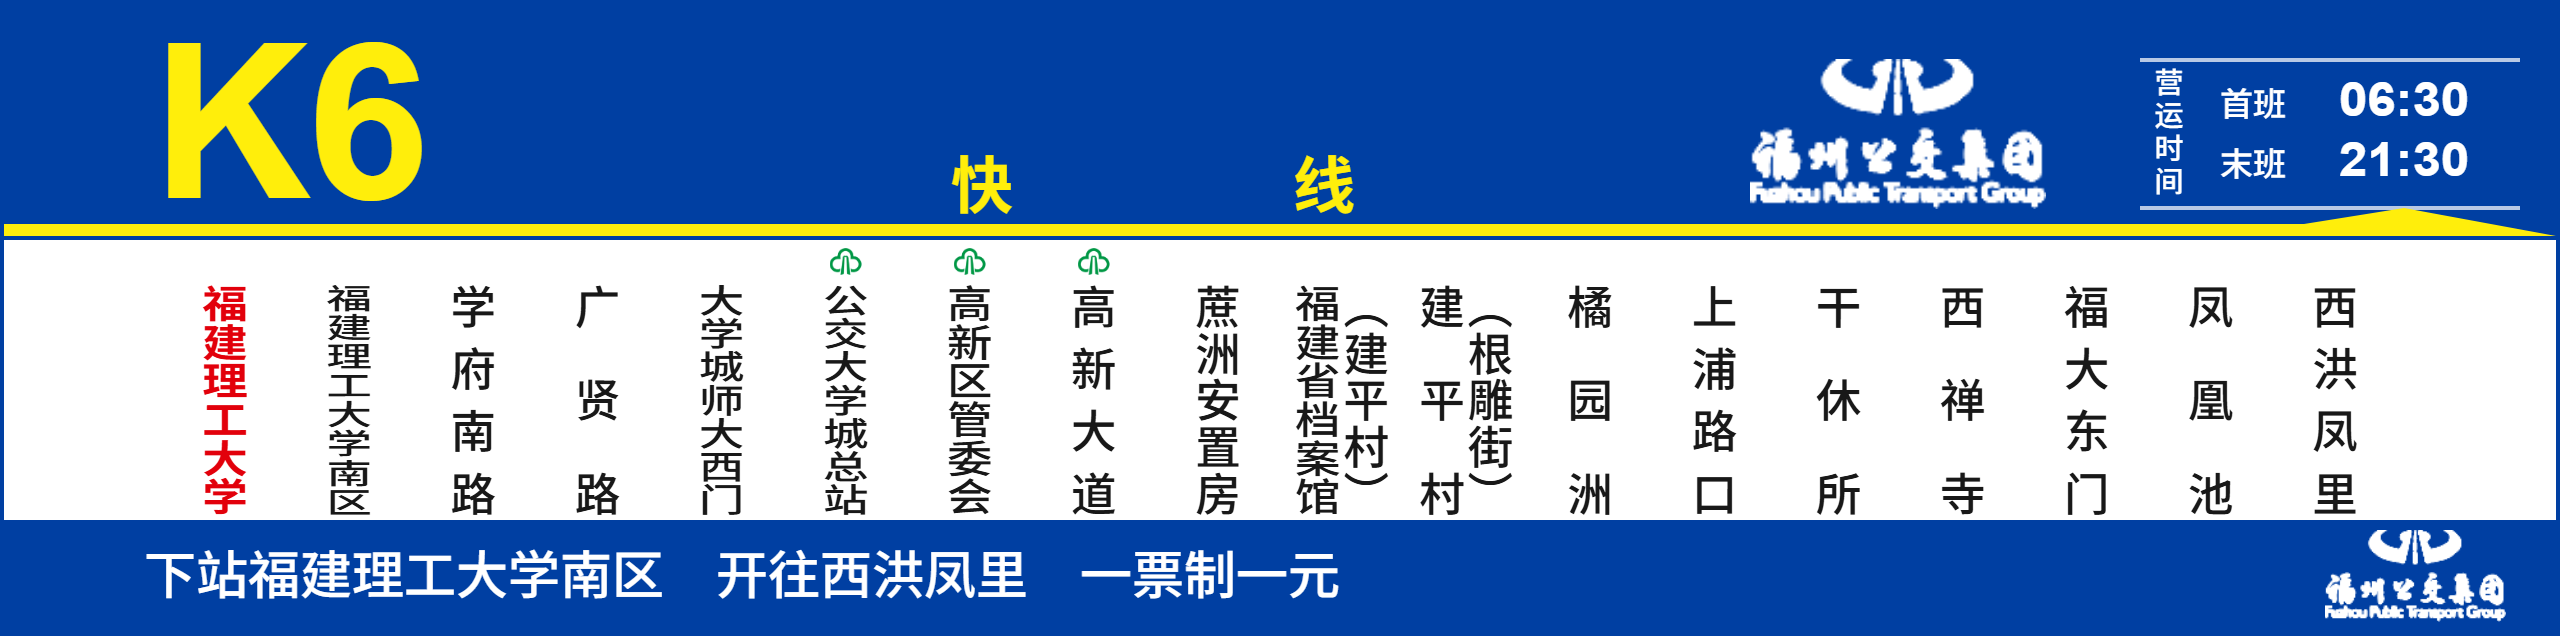
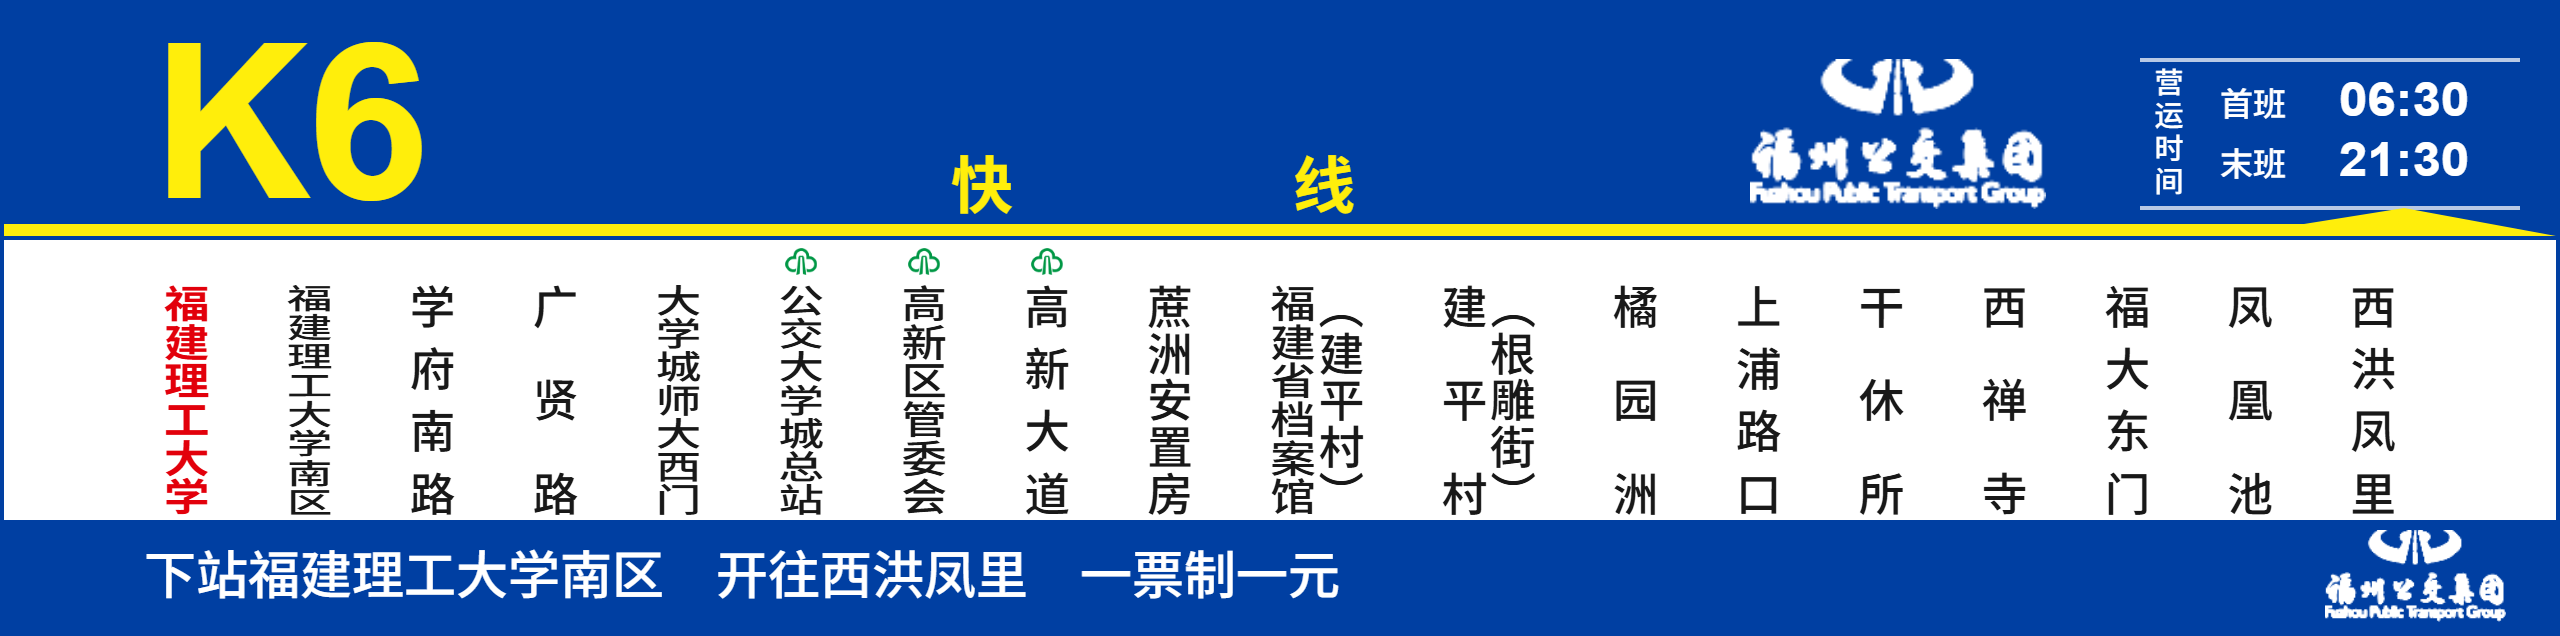
Add files via upload

Changed region(s): [[0.0625, 0.3884, 0.9375, 0.8066]]

diff --git a/index.html b/index.html
@@ -157,7 +157,7 @@
 
             <div class="station-tip">
               <svg viewBox="0 0 20 20" aria-hidden="true"><path d="M10 18s6-5.1 6-10a6 6 0 1 0-12 0c0 4.9 6 10 6 10Z" fill="none" stroke="currentColor" stroke-width="1.5"/><circle cx="10" cy="8" r="2.2" fill="none" stroke="currentColor" stroke-width="1.5"/></svg>
-              主要方式：点击下方地图，自动搜索附近公交站并接入线路。点站点序号或行空白处可设为当前站，该站及地图上对应圆点会变红，表头「下站」自动跟着改；双击站点可查看这个站的全部线路长图。载入带坐标的线路后会自动检测最近的地铁站/医院，200m 内自动点亮；也可以点「自动检测」重新查询，或在每站右侧手动改。站名强制单列，首字贴顶、末字贴底，底边全部对齐；短站名只拉开字间距，不改变字号。每个字的横向宽度统一，字高按字数纵向压缩（5字内100%、6字85%、7字73%、8字63%…）。只有末尾括号会竖排到第二列，括号与主列同顶边、同底边。
+              主要方式：点击下方地图，自动搜索附近公交站并接入线路。点站点序号或行空白处可设为当前站，该站及地图上对应圆点会变红，表头「下站」自动跟着改；双击站点可查看这个站的全部线路长图。载入带坐标的线路后会自动检测最近的地铁站/医院，200m 内自动点亮；也可以点「自动检测」重新查询，或在每站右侧手动改。站名强制单列，首字贴顶、末字贴底，底边全部对齐；短站名只拉开字间距，不改变字号。每个字的横向宽度统一，字高按字数纵向压缩（5字内100%、6字85%、7字73%、8字63%…）；站间距自动分配，优先保证单字宽度。只有末尾括号会竖排到第二列，括号与主列同顶边、同底边。
             </div>
 
             <p class="facility-scan-status" id="facilityScanStatus" hidden></p>

diff --git a/app.js b/app.js
@@ -3421,14 +3421,32 @@
       return { columns };
     });
 
-    const maxColumns = Math.max(1, ...layouts.map((layout) => layout.columns.length));
-    const targetGlyphWidth = Math.min(
-      baseStationSize,
-      (cellWidth - 2 - (maxColumns - 1) * columnGap) / maxColumns
+    // Prioritize a readable character width. Only after that is the remaining
+    // horizontal space distributed between stations.
+    const internalGaps = layouts.reduce(
+      (sum, layout) => sum + Math.max(0, layout.columns.length - 1) * columnGap,
+      0
     );
+    const totalColumns = layouts.reduce((sum, layout) => sum + layout.columns.length, 0);
+    const minStationGap = 2;
+    const targetGlyphWidth = Math.max(5, Math.min(
+      baseStationSize,
+      (available - internalGaps - (count - 1) * minStationGap) / totalColumns
+    ));
+    const blockWidths = layouts.map((layout) =>
+      layout.columns.length * targetGlyphWidth + (layout.columns.length - 1) * columnGap
+    );
+    const usedWidth = blockWidths.reduce((sum, width) => sum + width, 0);
+    const stationGap = count > 1 ? Math.max(minStationGap, (available - usedWidth) / (count - 1)) : 0;
+    const stationCenters = [];
+    let cursor = left;
+    blockWidths.forEach((width) => {
+      stationCenters.push(cursor + width / 2);
+      cursor += width + stationGap;
+    });
 
     stations.forEach((station, index) => {
-      const center = left + index * (cellWidth + gap) + cellWidth / 2;
+      const center = stationCenters[index];
       const hasMetro = station.icon || station.autoMetro;
       const hasHospital = station.hospital || station.autoHospital;
       const flags = state.showIcons

diff --git a/README.md b/README.md
@@ -13,7 +13,7 @@
 - **站点管理**：改名、拖动/箭头排序、设为当前站、双击查看车站详情。
 - **设施标记**：自动检测 200m 内最近的地铁站/医院，自动点亮图标；2 QPS 限速 + 本地缓存。
 - **车站详情长图**：按公交站两侧分别生成长图，一条线路一张完整站牌，K 线在前、数字线从小到大、特殊线在后，可下载 PNG。
-- **站名排版**：所有单字横向宽度统一，字高按字数纵向压缩（5 字内 100%、6 字 85%、7 字 73%、8 字 63%…）；首字贴顶、末字贴底，底边全部对齐，短站名只拉字间距不改字号；末尾括号单独成列并与主列同顶同底。
+- **站名排版**：所有单字横向宽度统一，字高按字数纵向压缩（5 字内 100%、6 字 85%、7 字 73%、8 字 63%…）；站间距自动分配，优先保证单字宽度；首字贴顶、末字贴底，底边全部对齐；末尾括号单独成列。
 
 ## 技术
 
